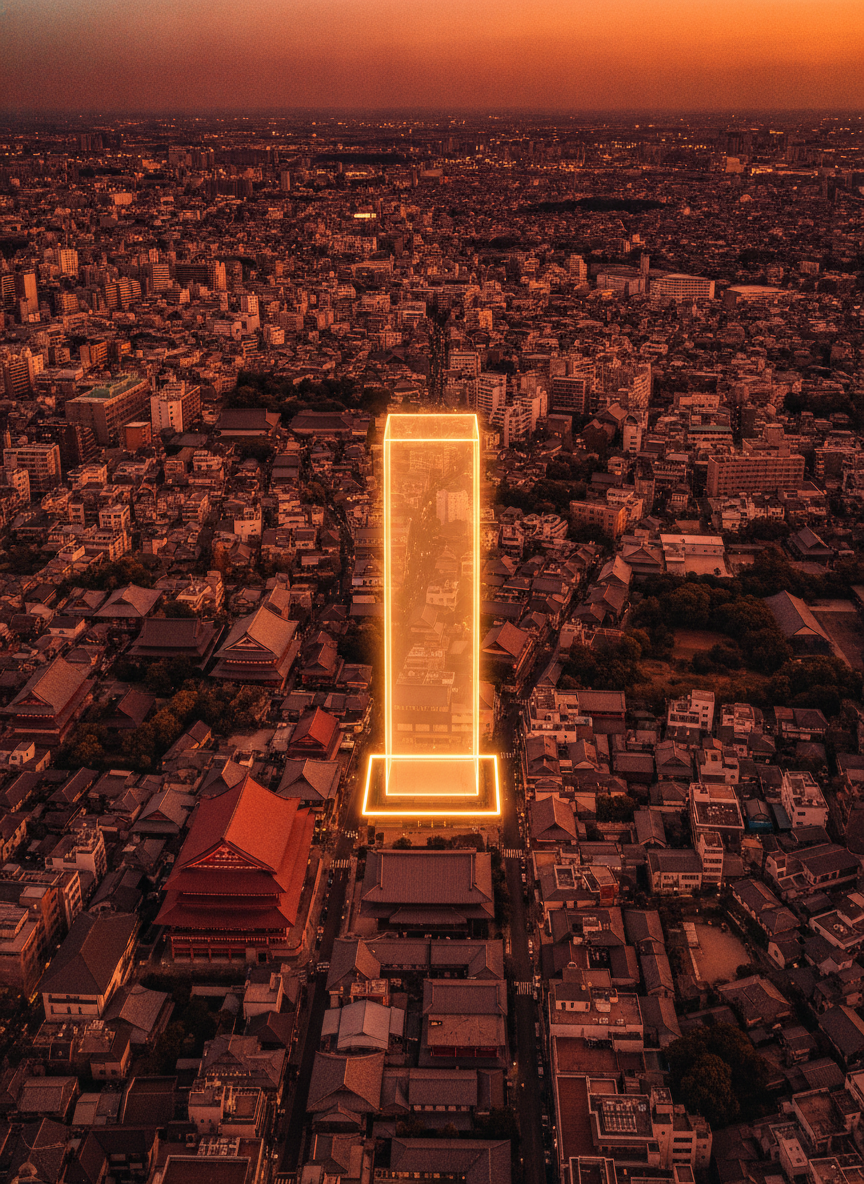
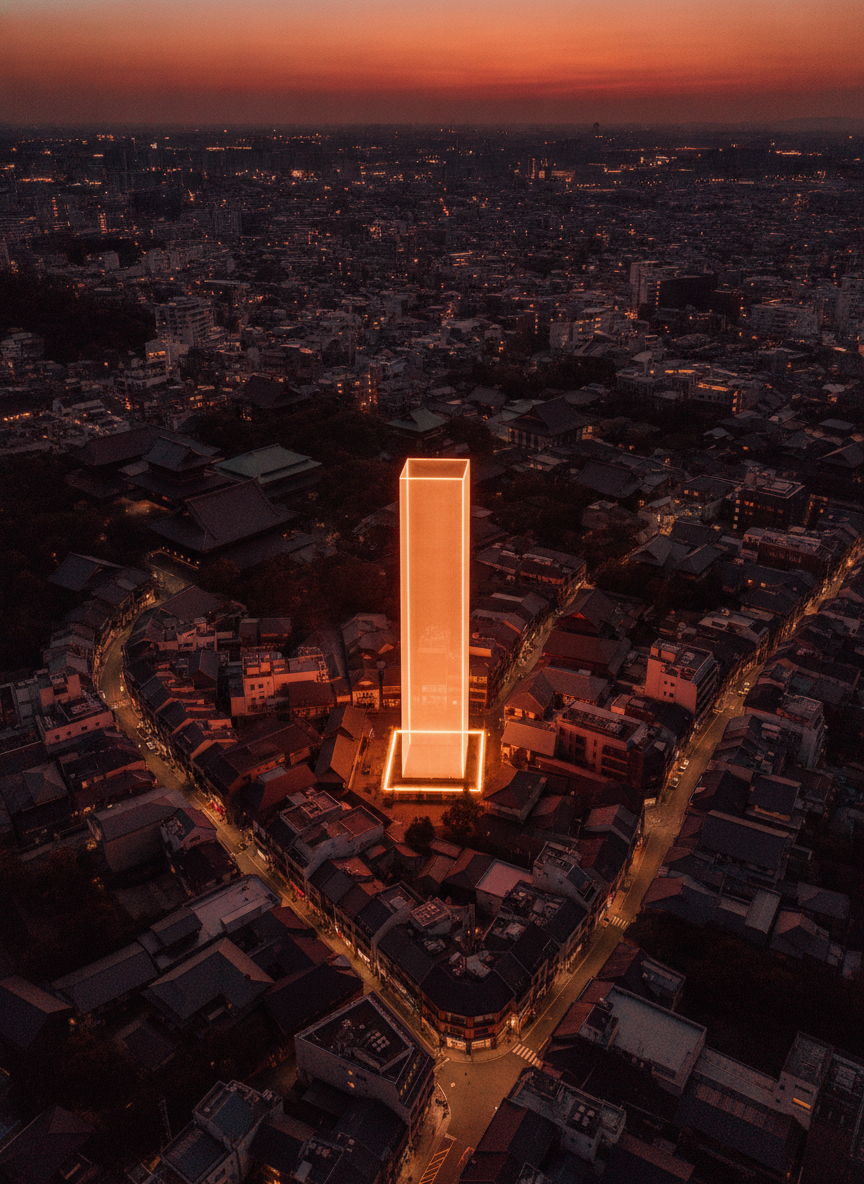
本生成: マンションポエム画像48枚（6軸×8枚）を追加
Gemini API（gemini-2.5-flash-image, 3:4）で「上空鳥瞰＋建設予定地の
長方形の光」パターンの画像を全画像軸ぶん生成し、src/data/images.ts の
マニフェストを更新。teitaku（邸宅）系の駅は image.ts のフォールバックで
都心画像を使用。アプリ表示・ビルド・型チェック確認済み。

Claude-Session: https://claude.ai/code/session_01EiH3mEuPjNuDzpDfGJKtPP

diff --git a/src/data/images.ts b/src/data/images.ts
@@ -14,13 +14,283 @@ export const POEM_IMAGES: readonly PoemImage[] = [
     ]
   },
   {
+    "file": "bunka-01.png",
+    "axes": [
+      "bunka"
+    ]
+  },
+  {
+    "file": "bunka-02.png",
+    "axes": [
+      "bunka"
+    ]
+  },
+  {
+    "file": "bunka-03.png",
+    "axes": [
+      "bunka"
+    ]
+  },
+  {
+    "file": "bunka-04.png",
+    "axes": [
+      "bunka"
+    ]
+  },
+  {
+    "file": "bunka-05.png",
+    "axes": [
+      "bunka"
+    ]
+  },
+  {
+    "file": "bunka-06.png",
+    "axes": [
+      "bunka"
+    ]
+  },
+  {
+    "file": "bunka-07.png",
+    "axes": [
+      "bunka"
+    ]
+  },
+  {
+    "file": "kaiho-00.png",
+    "axes": [
+      "kaiho"
+    ]
+  },
+  {
+    "file": "kaiho-01.png",
+    "axes": [
+      "kaiho"
+    ]
+  },
+  {
+    "file": "kaiho-02.png",
+    "axes": [
+      "kaiho"
+    ]
+  },
+  {
+    "file": "kaiho-03.png",
+    "axes": [
+      "kaiho"
+    ]
+  },
+  {
+    "file": "kaiho-04.png",
+    "axes": [
+      "kaiho"
+    ]
+  },
+  {
+    "file": "kaiho-05.png",
+    "axes": [
+      "kaiho"
+    ]
+  },
+  {
+    "file": "kaiho-06.png",
+    "axes": [
+      "kaiho"
+    ]
+  },
+  {
+    "file": "kaiho-07.png",
+    "axes": [
+      "kaiho"
+    ]
+  },
+  {
+    "file": "keikan-00.png",
+    "axes": [
+      "keikan"
+    ]
+  },
+  {
+    "file": "keikan-01.png",
+    "axes": [
+      "keikan"
+    ]
+  },
+  {
+    "file": "keikan-02.png",
+    "axes": [
+      "keikan"
+    ]
+  },
+  {
+    "file": "keikan-03.png",
+    "axes": [
+      "keikan"
+    ]
+  },
+  {
+    "file": "keikan-04.png",
+    "axes": [
+      "keikan"
+    ]
+  },
+  {
+    "file": "keikan-05.png",
+    "axes": [
+      "keikan"
+    ]
+  },
+  {
+    "file": "keikan-06.png",
+    "axes": [
+      "keikan"
+    ]
+  },
+  {
+    "file": "keikan-07.png",
+    "axes": [
+      "keikan"
+    ]
+  },
+  {
+    "file": "kurashi-00.png",
+    "axes": [
+      "kurashi"
+    ]
+  },
+  {
+    "file": "kurashi-01.png",
+    "axes": [
+      "kurashi"
+    ]
+  },
+  {
+    "file": "kurashi-02.png",
+    "axes": [
+      "kurashi"
+    ]
+  },
+  {
+    "file": "kurashi-03.png",
+    "axes": [
+      "kurashi"
+    ]
+  },
+  {
+    "file": "kurashi-04.png",
+    "axes": [
+      "kurashi"
+    ]
+  },
+  {
+    "file": "kurashi-05.png",
+    "axes": [
+      "kurashi"
+    ]
+  },
+  {
+    "file": "kurashi-06.png",
+    "axes": [
+      "kurashi"
+    ]
+  },
+  {
+    "file": "kurashi-07.png",
+    "axes": [
+      "kurashi"
+    ]
+  },
+  {
     "file": "shizen-00.png",
     "axes": [
       "shizen"
     ]
   },
   {
+    "file": "shizen-01.png",
+    "axes": [
+      "shizen"
+    ]
+  },
+  {
+    "file": "shizen-02.png",
+    "axes": [
+      "shizen"
+    ]
+  },
+  {
+    "file": "shizen-03.png",
+    "axes": [
+      "shizen"
+    ]
+  },
+  {
+    "file": "shizen-04.png",
+    "axes": [
+      "shizen"
+    ]
+  },
+  {
+    "file": "shizen-05.png",
+    "axes": [
+      "shizen"
+    ]
+  },
+  {
+    "file": "shizen-06.png",
+    "axes": [
+      "shizen"
+    ]
+  },
+  {
+    "file": "shizen-07.png",
+    "axes": [
+      "shizen"
+    ]
+  },
+  {
     "file": "toshin-00.png",
+    "axes": [
+      "toshin"
+    ]
+  },
+  {
+    "file": "toshin-01.png",
+    "axes": [
+      "toshin"
+    ]
+  },
+  {
+    "file": "toshin-02.png",
+    "axes": [
+      "toshin"
+    ]
+  },
+  {
+    "file": "toshin-03.png",
+    "axes": [
+      "toshin"
+    ]
+  },
+  {
+    "file": "toshin-04.png",
+    "axes": [
+      "toshin"
+    ]
+  },
+  {
+    "file": "toshin-05.png",
+    "axes": [
+      "toshin"
+    ]
+  },
+  {
+    "file": "toshin-06.png",
+    "axes": [
+      "toshin"
+    ]
+  },
+  {
+    "file": "toshin-07.png",
     "axes": [
       "toshin"
     ]
